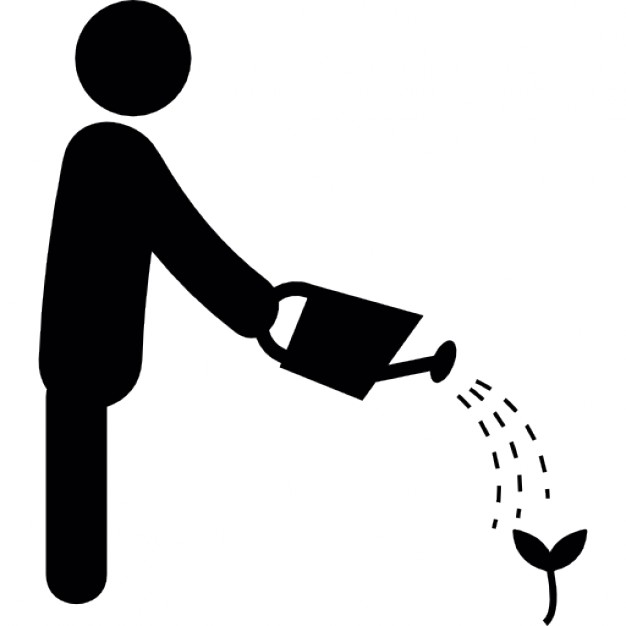
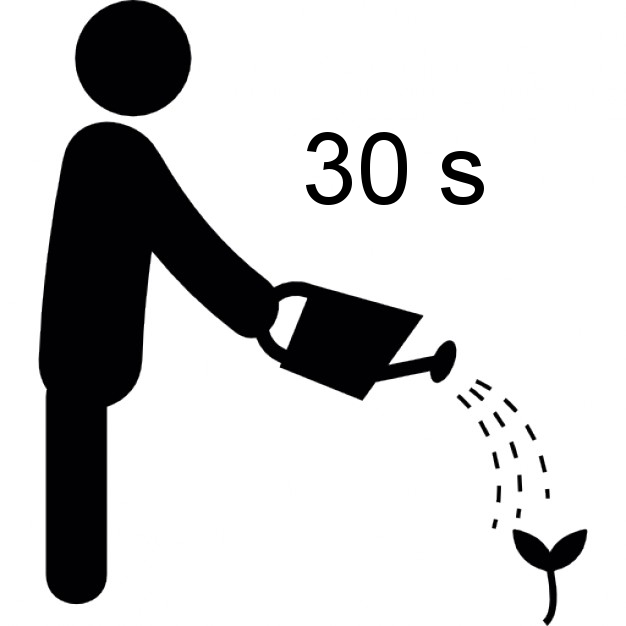
- Added virtualenv to project - some minor improvements in the frontend

Changed region(s): [[0.4856, 0.2125, 0.6677, 0.3339], [0.6981, 0.2428, 0.7891, 0.3339]]

diff --git a/webapp/templates/homepage.html b/webapp/templates/homepage.html
@@ -3,15 +3,25 @@
     <style>
         table, th, td {
             alignment: center;
+            text-align: center;
         }
 
         td.symbol {
             width: 100px;
+            text-align: center;
         }
 
         td.status {
-            alignment: center;
+            alignment: right;
+            text-align: center;
         }
+
+        td img {
+            display: block;
+            margin-left: auto;
+            margin-right: auto;
+        }
+
     </style>
     <div align="center">
 

diff --git a/webapp/views.py b/webapp/views.py
@@ -22,7 +22,7 @@ def homepage():
 
 @app.route('/water', methods=['GET'])
 def water():
-    response = gardenbot_client.water_plants(10)
+    response = gardenbot_client.water_plants(30)
     return jsonify(response.text, response.status_code)
 
 
